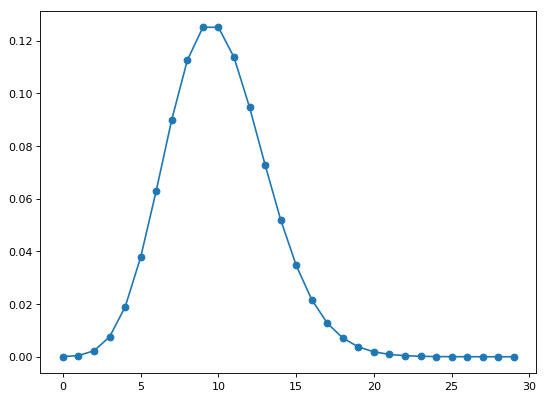
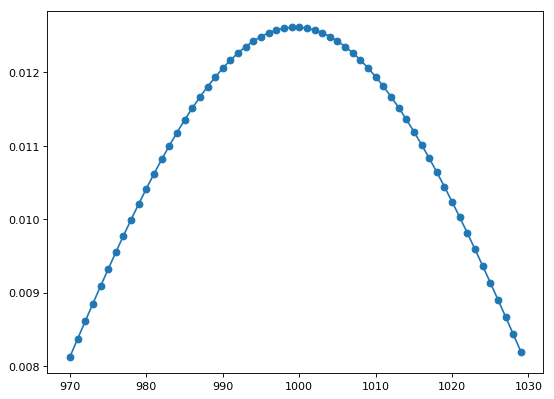
chg

diff --git a/distribution.py b/distribution.py
@@ -28,8 +28,8 @@ plt.show()
 # Poisson Distribution
 # For discrete outcomes (e.g., the number of customers visiting your lane in a supermarket for check out during 4:30-4:50), with known expected average outcome
 # Watch this for the Wal-Mart example (https://www.youtube.com/watch?v=8px7xuk_7OU)
-n = np.arange(0, 30)  # the number of possible occurrences of interest, say the number of customers that might show up during 4:30-4:45pm
-lambda_coef = 10   # long-run average, say, the expected number of customers in Walmart cashier lane between 4:30-4:45pm is 10
+n = np.arange(970, 1030)  # the number of possible occurrences of interest, say the number of visitors that might show up during 10-10:30pm on a Tuesday night
+lambda_coef = 1000   # long-run average, say, the expected number of customers in Amazon website between 10:00-10:30pm on a Tuesday night is 1000
 y = stats.poisson.pmf(n, lambda_coef)  # Probability Mass Function is the probability density function for discrete outcome
 plt.figure(num=None, figsize=(8, 6), dpi=80, facecolor='w', edgecolor='k')
 plt.plot(n, y, 'o-')
